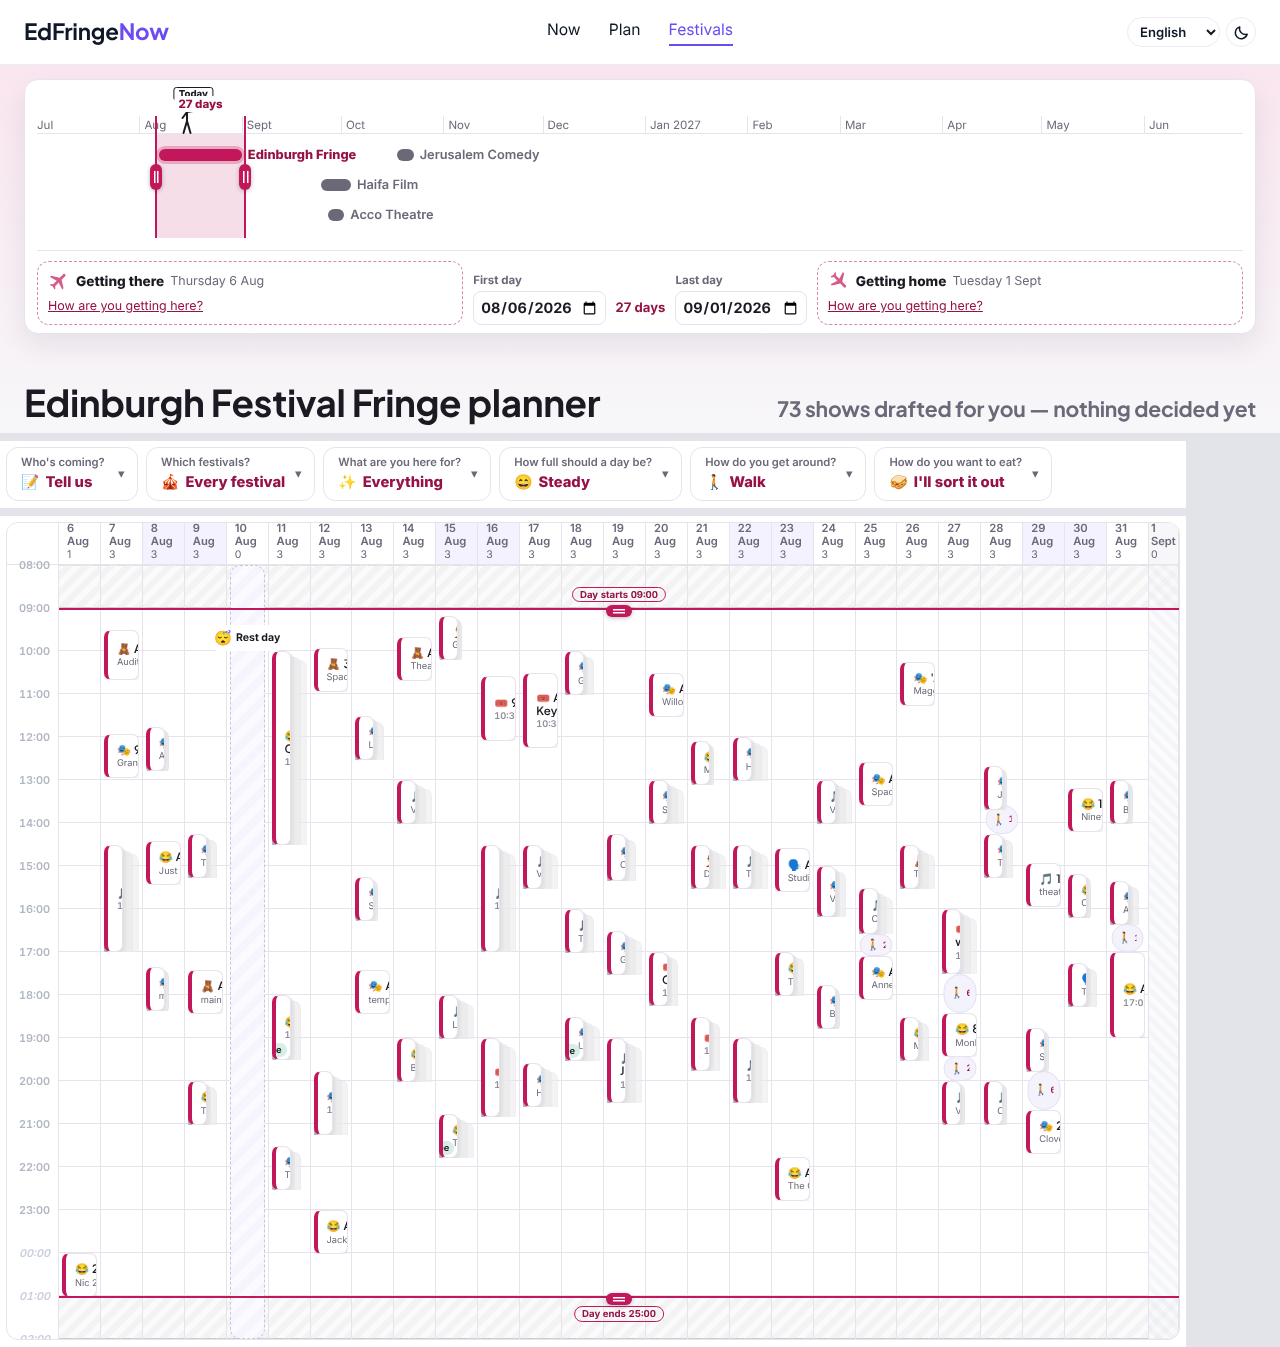
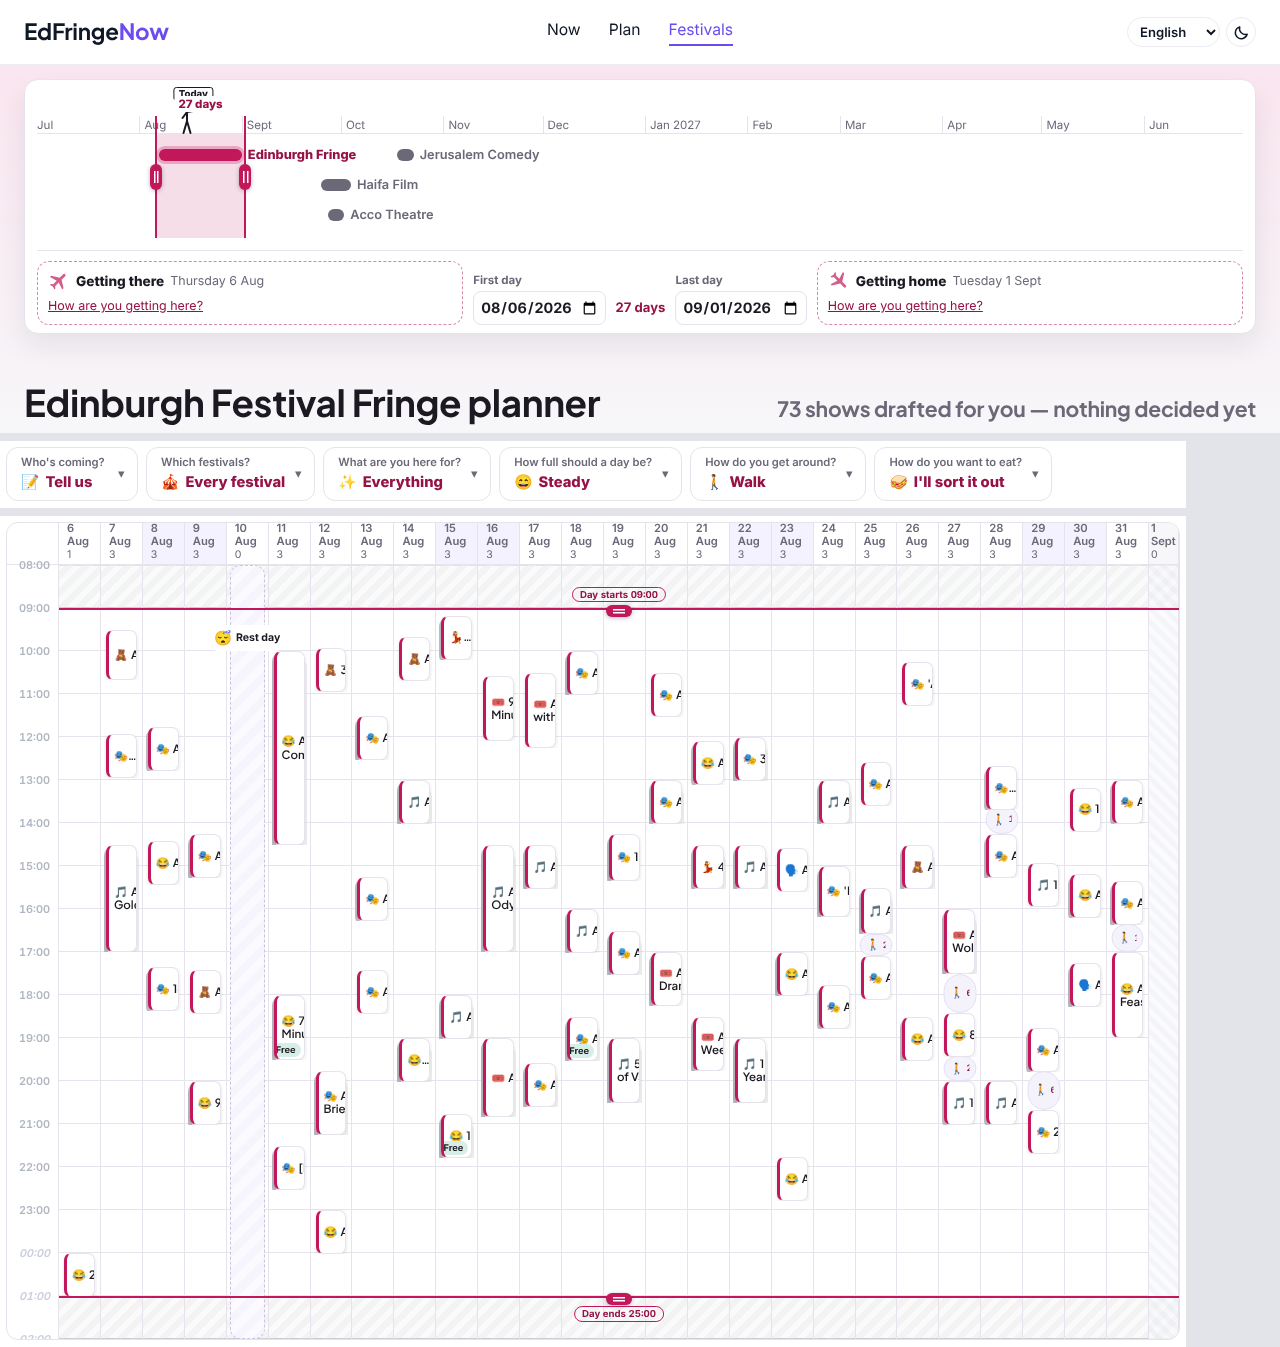
Shed a squeezed column's times, picture and venue as /plan does
Claude-Session: https://claude.ai/code/session_01GjDQR2zHUeyKV4dM4mgpoP

diff --git a/product/requirements/behavior/cases/planng-calendar-fits.23.16.case.js b/product/requirements/behavior/cases/planng-calendar-fits.23.16.case.js
@@ -14,6 +14,7 @@ const layout = (page) =>
       page: document.documentElement.scrollWidth - document.documentElement.clientWidth,
       days: cols.length,
       widest: Math.max(...cols),
+      sheds: ["cols-narrow", "cols-tiny"].filter((c) => document.querySelector("#schedule").classList.contains(c)),
     };
   });
 
@@ -33,6 +34,7 @@ module.exports = {
     assert.equal(phone.days, 7, "a week on a phone");
     assert.ok(phone.overflow <= 0, `nothing to scroll sideways on a phone (${phone.overflow}px over)`);
     assert.ok(phone.page <= 0, "nor does the page itself");
+    assert.deepEqual(phone.sheds, ["cols-narrow", "cols-tiny"], "a phone's squeezed columns shed times, pictures and venues");
 
     const month = await open("&from=2026-10-10&to=2026-11-09", { width: 1280, height: 900 });
     assert.equal(month.days, 31, "the longest trip allowed");
@@ -42,5 +44,6 @@ module.exports = {
     assert.equal(wide.days, 7);
     assert.ok(wide.widest <= CAP_PX + 1, `a column stops at ${CAP_PX}px (widest ${wide.widest}px)`);
     assert.ok(wide.widest >= CAP_PX - 1, "and reaches it when there is room");
+    assert.deepEqual(wide.sheds, [], "a column with room keeps everything");
   },
 };

diff --git a/site/planNG/planNG.js b/site/planNG/planNG.js
@@ -1641,6 +1641,22 @@ function renderCalendar(draft) {
   });
 
   host.appendChild(buildBlockers(axis, y, gutter.getBoundingClientRect().width));
+  markColumnWidth();
+}
+
+/* A column squeezed to share the width sheds what a show's block can't
+ * afford, through plan.css's own classes and at the Fringe planner's widths
+ * (site/plan/plan.js sets the same two). */
+const COL_NARROW_PX = 78;
+const COL_TINY_PX = 56;
+function markColumnWidth() {
+  const host = $("schedule");
+  // The widest column is a full day's: an empty day is drawn as a sliver.
+  const width = Math.max(0, ...[...host.querySelectorAll(".sch-day")].map((c) => c.getBoundingClientRect().width));
+  // Drawn before it is laid out (a hidden panel): the observer below asks again.
+  if (!width) return;
+  host.classList.toggle("cols-narrow", width < COL_NARROW_PX);
+  host.classList.toggle("cols-tiny", width < COL_TINY_PX);
 }
 
 /* The hours the calendar draws.
@@ -3442,6 +3458,7 @@ function wireTrip() {
     syncStars();
   });
   addEventListener("resize", () => layoutRows($("timelineYear")));
+  new ResizeObserver(markColumnWidth).observe($("schedule"));
 }
 
 async function boot() {
